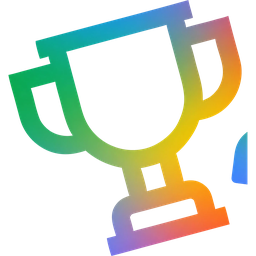
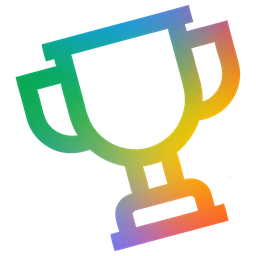
feat(landing): dark Recognition section above the problem, black-and-white award tile

diff --git a/covert_call/landing/src/components/Sections.tsx b/covert_call/landing/src/components/Sections.tsx
@@ -454,8 +454,8 @@ export function Footer() {
   )
 }
 
-// Awards: one tile per award, article or mention (newest first). `badge` is an image in public/brand/recognition/
-// (shown in greyscale); `href` is optional. The arrows appear only when the tiles overflow the row.
+// Awards: one tile per award, article or mention (newest first). `badge` is an image in public/brand/recognition/;
+// `href` is optional. The arrows appear only when the tiles overflow the row.
 type Award = { year: string; badge: string; title: string; href?: string }
 const AWARDS: Award[] = [
   { year: '2026', badge: '/brand/recognition/ai-builder-cup-trophy.png', title: 'AI Builder Cup 2026 · Top 50 shortlisted' },
@@ -472,13 +472,18 @@ export function Recognition() {
     window.addEventListener('resize', check)
     return () => window.removeEventListener('resize', check)
   }, [])
-  const scroll = (dir: number) => row.current?.scrollBy({ left: dir * 260, behavior: 'smooth' })
+  const scroll = (dir: number) => row.current?.scrollBy({ left: dir * 220, behavior: 'smooth' })
   return (
-    <section id="recognition" className="awards">
+    <section id="recognition" className="dark">
       <div className="container">
-        <h2 className="awards-head">Awards</h2>
+        <Reveal>
+          <div className="section-head" style={{ marginInline: 'auto', textAlign: 'center' }}>
+            <span className="eyebrow">Recognition</span>
+            <h2>Built for people in danger. <span className="grad">Noticed on the way.</span></h2>
+          </div>
+        </Reveal>
         <div className="awards-row" ref={row} style={{ justifyContent: overflow ? 'flex-start' : 'center' }}>
-          {AWARDS.map((a) => {
+          {AWARDS.map((a, i) => {
             const inner = (
               <>
                 <span className="award-year">{a.year}</span>
@@ -486,9 +491,13 @@ export function Recognition() {
                 <span className="award-title">{a.title}</span>
               </>
             )
-            return a.href
-              ? <a key={a.title} className="award" href={a.href} target="_blank" rel="noreferrer">{inner}</a>
-              : <div key={a.title} className="award">{inner}</div>
+            return (
+              <Reveal key={a.title} delay={i * 0.08}>
+                {a.href
+                  ? <a className="award" href={a.href} target="_blank" rel="noreferrer">{inner}</a>
+                  : <div className="award">{inner}</div>}
+              </Reveal>
+            )
           })}
         </div>
         {overflow && (

diff --git a/covert_call/landing/src/styles.css b/covert_call/landing/src/styles.css
@@ -801,14 +801,13 @@ h2 { font-size: clamp(32px, 4.4vw, 52px); line-height: 1.08; margin: 14px 0 16px
 .qb-logo { height: 20px; width: auto; display: block; }
 
 /* Recognition / Awards */
-.awards { padding: 48px 0; text-align: center; }
-.awards-head { font-size: 22px; margin: 0 0 22px; letter-spacing: -.01em; }
-.awards-row { display: flex; gap: 14px; overflow-x: auto; scroll-snap-type: x mandatory; scrollbar-width: none; padding: 4px; }
+.awards-row { display: flex; gap: 16px; overflow-x: auto; scroll-snap-type: x mandatory; scrollbar-width: none; padding: 6px; }
 .awards-row::-webkit-scrollbar { display: none; }
-.award { flex: 0 0 150px; scroll-snap-align: start; display: flex; flex-direction: column; align-items: center; gap: 8px; padding: 14px 12px 16px; background: var(--surface); border: 1px solid var(--border); border-radius: 12px; color: var(--text); text-decoration: none; }
-a.award:hover { border-color: var(--accent); }
-.award-year { font-size: 12px; font-weight: 700; color: var(--muted); }
-.award-badge { width: 64px; height: 64px; filter: grayscale(1); opacity: .85; }
-.award-title { font-size: 11.5px; line-height: 1.35; color: var(--muted); }
-.awards-nav { display: flex; justify-content: center; gap: 10px; margin-top: 16px; }
-.awards-nav button { width: 32px; height: 32px; border-radius: 50%; border: 1px solid var(--border); background: var(--surface); font-size: 18px; line-height: 1; color: var(--muted); cursor: pointer; }
+.award { flex: none; width: 170px; scroll-snap-align: start; display: flex; flex-direction: column; align-items: center; gap: 10px; padding: 16px 14px 18px; border-radius: 14px; text-align: center; text-decoration: none;
+  background: #fff; border: 1px solid #e3e7ee; color: var(--text); transition: transform .25s; }
+.award:hover { transform: translateY(-4px); }
+.award-year { font-size: 12px; font-weight: 700; color: #4b5260; }
+.award-badge { width: 76px; height: 76px; object-fit: contain; filter: grayscale(1) contrast(1.1); opacity: .9; }
+.award-title { font-size: 12px; line-height: 1.4; color: #5b6472; }
+.awards-nav { display: flex; justify-content: center; gap: 10px; margin-top: 18px; }
+.awards-nav button { width: 34px; height: 34px; border-radius: 50%; border: 1px solid var(--ink-border); background: rgba(255,255,255,.04); color: #e8ecf4; font-size: 18px; line-height: 1; cursor: pointer; }

diff --git a/covert_call/landing/src/App.tsx b/covert_call/landing/src/App.tsx
@@ -58,8 +58,8 @@ export default function App() {
       <Nav />
       <main>
         <Hero />
-        <Problem />
         <Recognition />
+        <Problem />
         <Disguise />
         <HowItWorks />
         <DeepDives />
